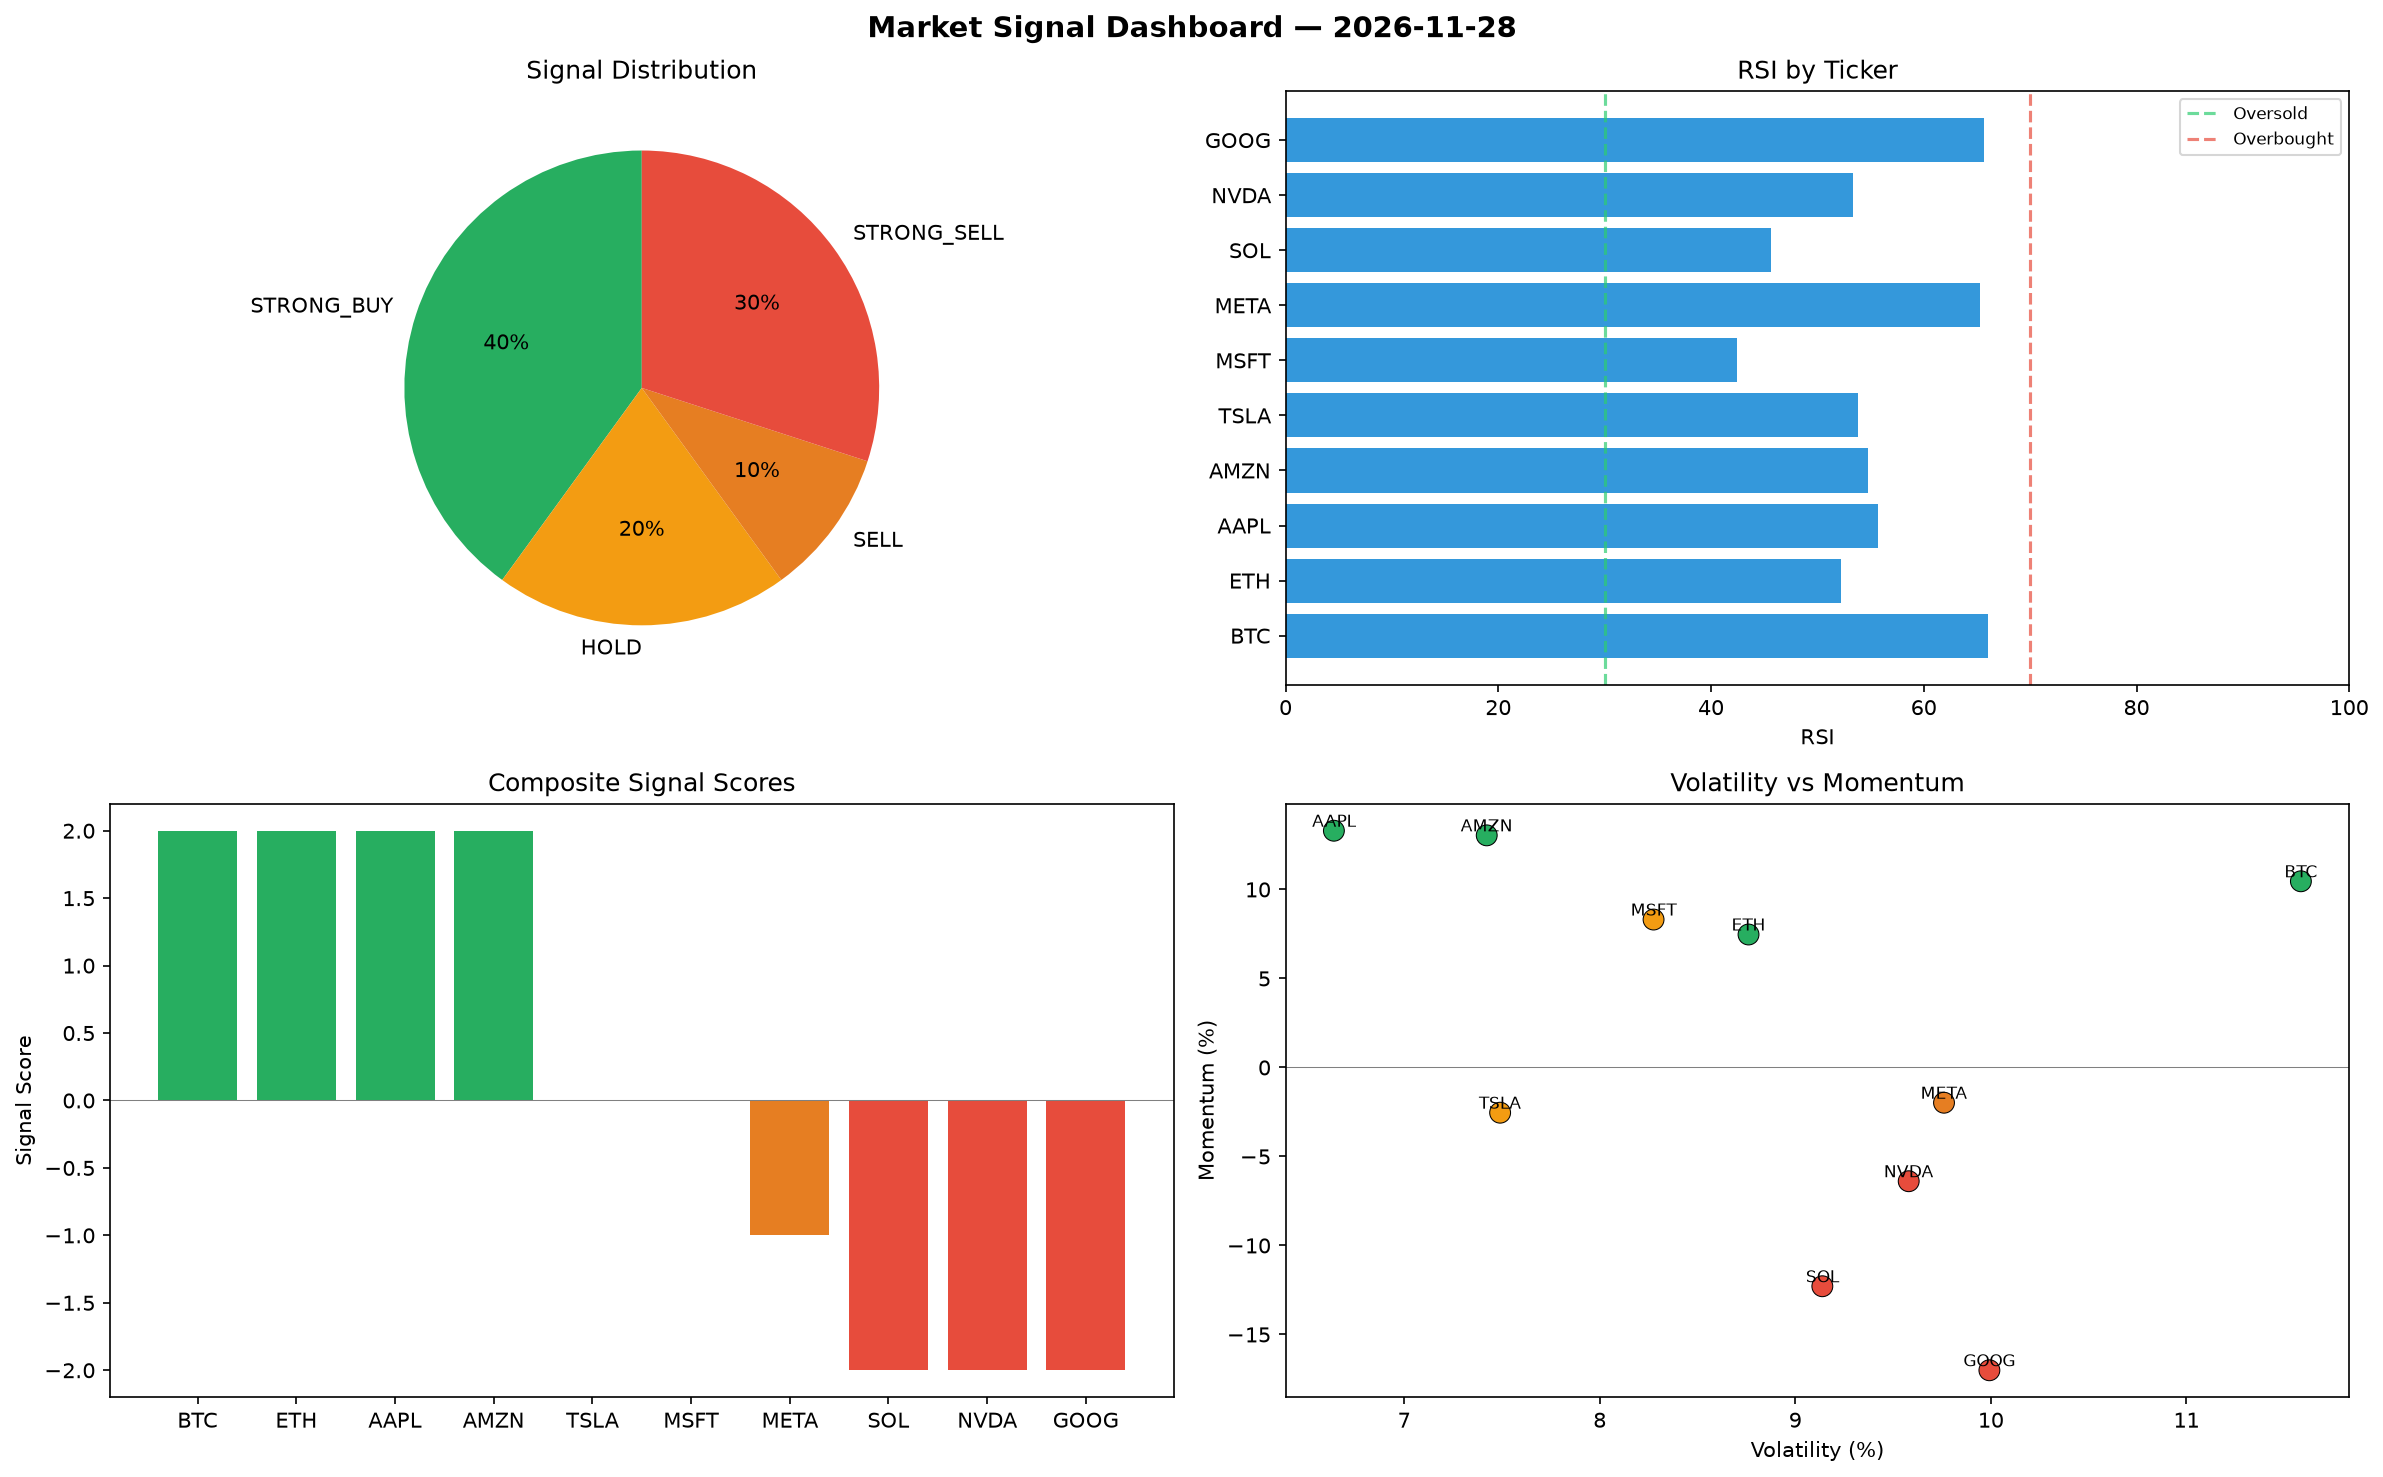
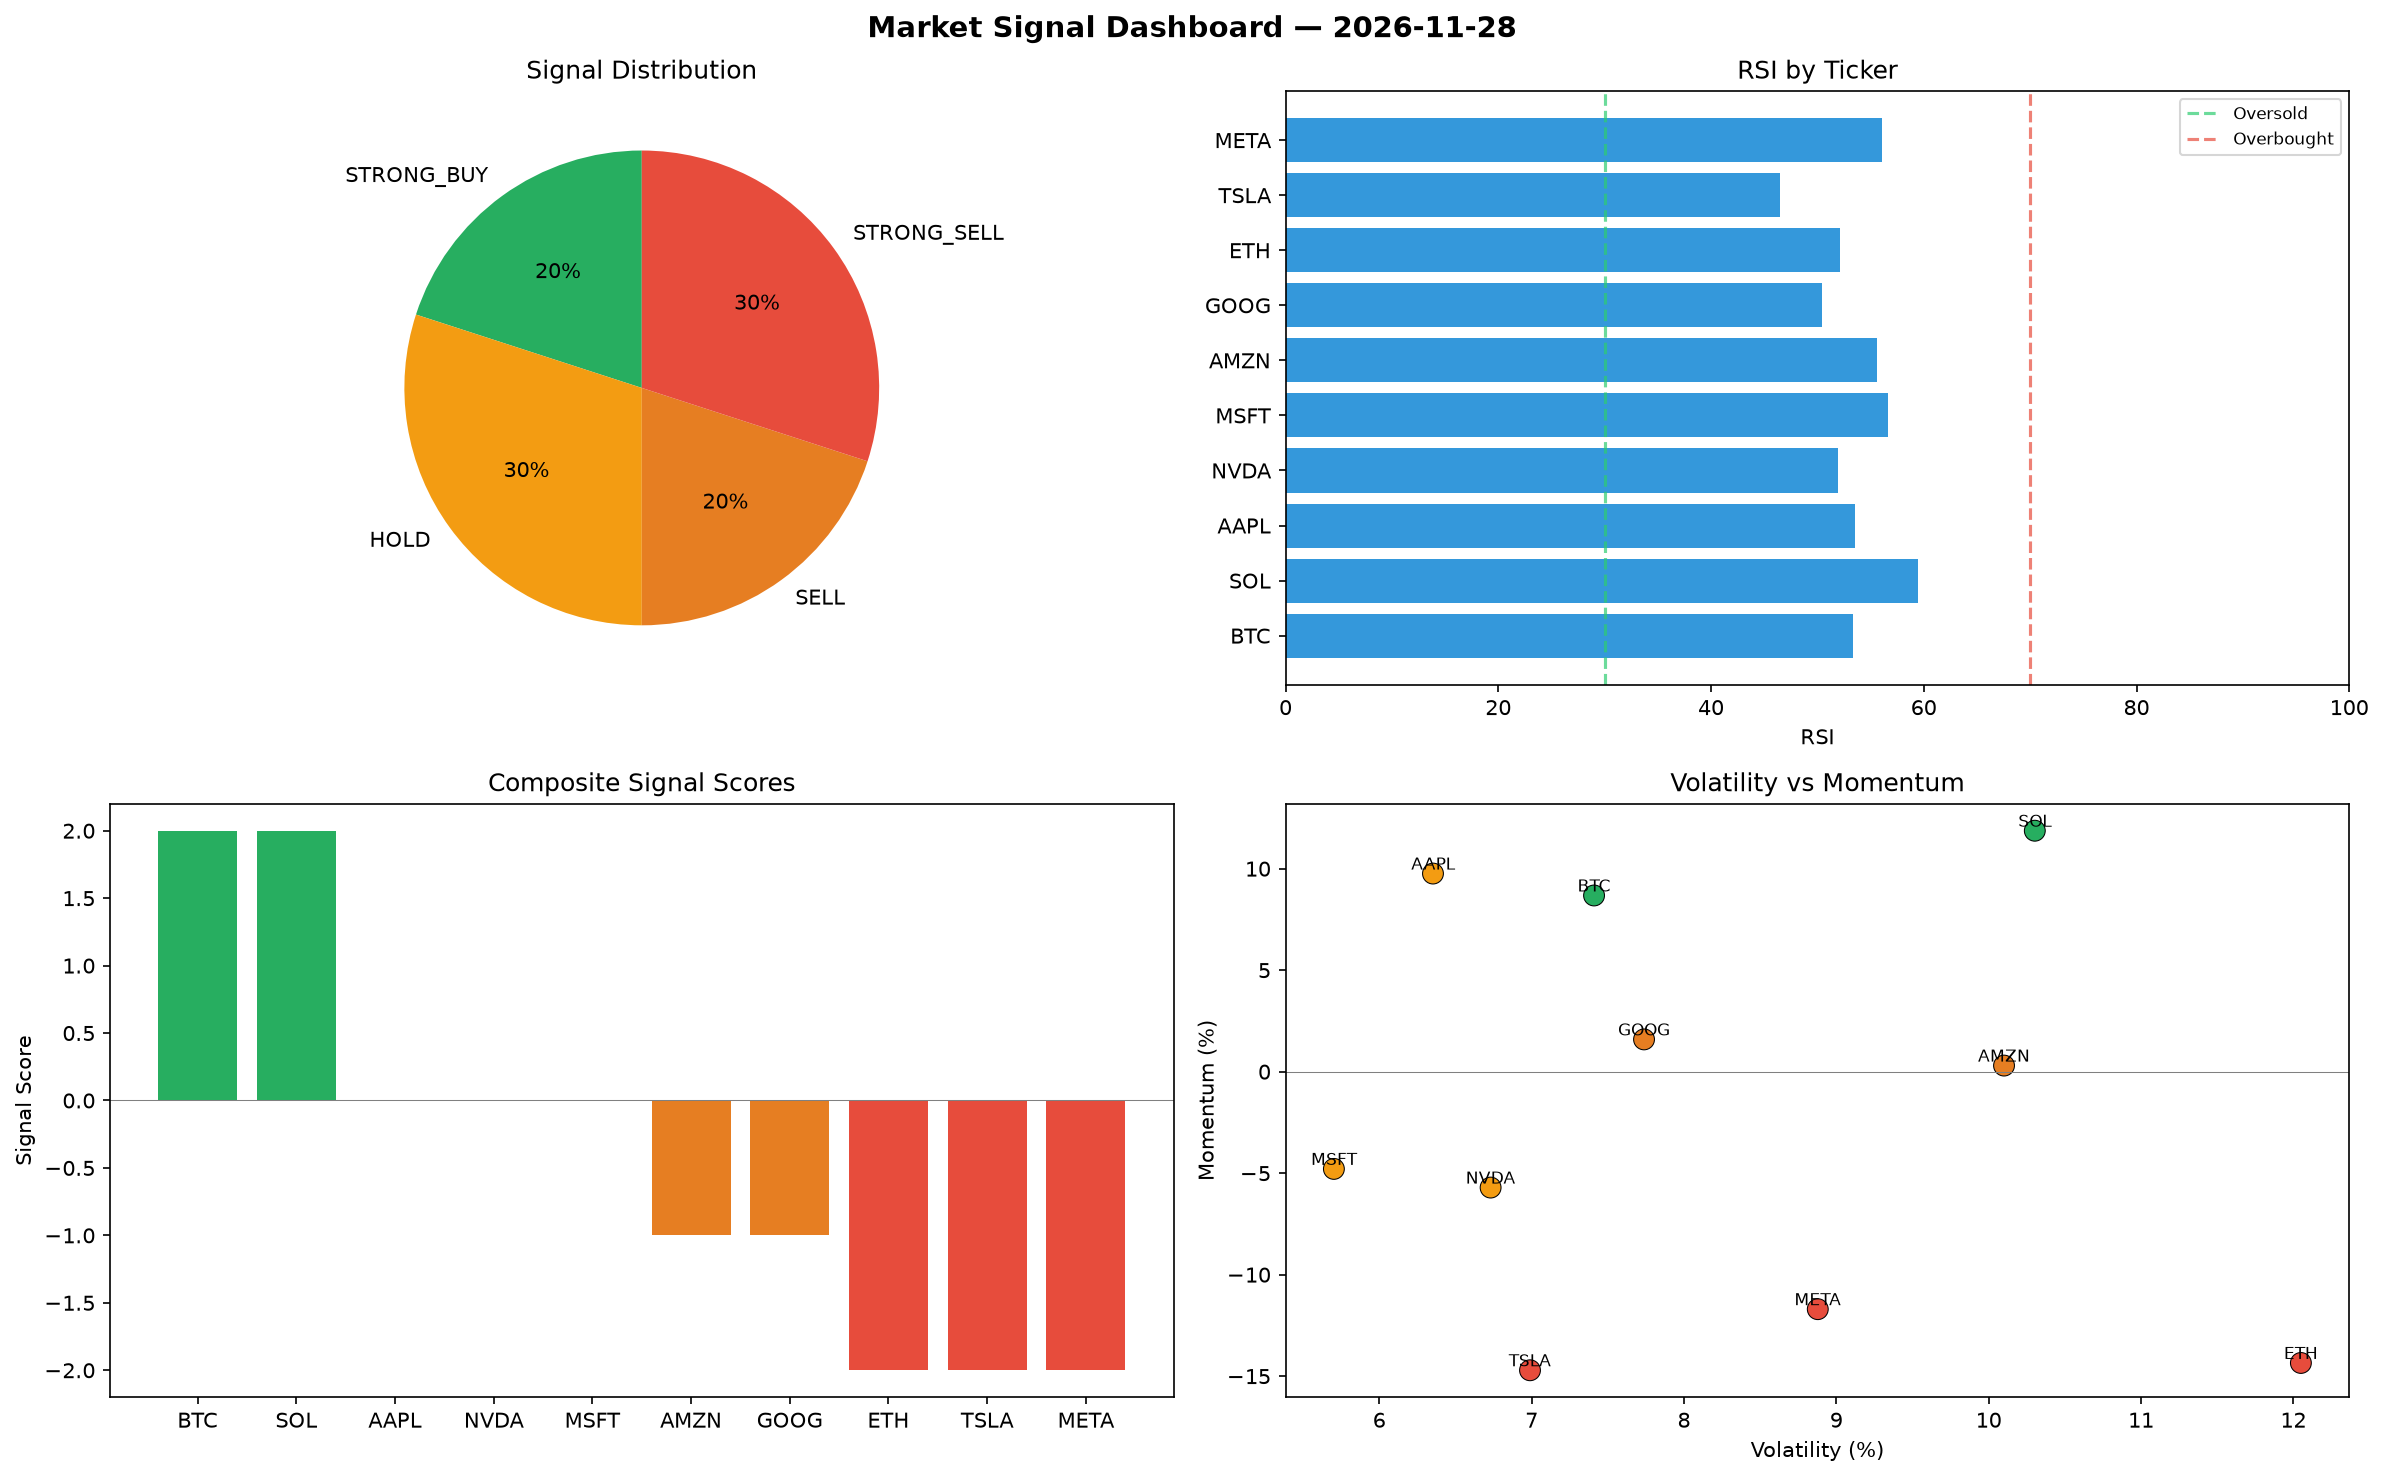
automated-bots: market signals 2026-11-28T17:02

diff --git a/logs/2026-11-28.md b/logs/2026-11-28.md
@@ -1,6 +1,6 @@
 # Market Signal Report — 2026-11-28
 
-**Run ID:** `974afcb3eb` | **Buy:** 4 | **Sell:** 4 | **Hold:** 2
+**Run ID:** `e75f9f6bfc` | **Buy:** 2 | **Sell:** 5 | **Hold:** 3
 
 ![Dashboard](2026-11-28_dashboard.png)
 
@@ -8,28 +8,28 @@
 
 | Ticker | Price | Signal | Score | RSI | Momentum | Confidence |
 |--------|-------|--------|-------|-----|----------|------------|
-| BTC | $2763.24 | **STRONG_BUY** | 2 | 66.07 | 0.1046 | 0.5 |
-| ETH | $4446.2 | **STRONG_BUY** | 2 | 52.21 | 0.0747 | 0.5 |
-| AAPL | $4558.4 | **STRONG_BUY** | 2 | 55.69 | 0.133 | 0.5 |
-| AMZN | $1620.11 | **STRONG_BUY** | 2 | 54.74 | 0.1304 | 0.5 |
-| TSLA | $2603.8 | **HOLD** | 0 | 53.78 | -0.0254 | 0.0 |
-| MSFT | $4671.49 | **HOLD** | 0 | 42.44 | 0.0831 | 0.0 |
-| META | $165.86 | **SELL** | -1 | 65.29 | -0.0198 | 0.25 |
-| SOL | $1243.02 | **STRONG_SELL** | -2 | 45.65 | -0.1229 | 0.5 |
-| NVDA | $1633.46 | **STRONG_SELL** | -2 | 53.34 | -0.0639 | 0.5 |
-| GOOG | $2350.58 | **STRONG_SELL** | -2 | 65.64 | -0.1701 | 0.5 |
+| BTC | $221.7 | **STRONG_BUY** | 2 | 53.39 | 0.0868 | 0.5 |
+| SOL | $665.08 | **STRONG_BUY** | 2 | 59.49 | 0.1187 | 0.5 |
+| AAPL | $2290.82 | **HOLD** | 0 | 53.58 | 0.0976 | 0.0 |
+| NVDA | $2747.01 | **HOLD** | 0 | 51.95 | -0.0571 | 0.0 |
+| MSFT | $3780.18 | **HOLD** | 0 | 56.67 | -0.0479 | 0.0 |
+| AMZN | $2011.44 | **SELL** | -1 | 55.57 | 0.003 | 0.25 |
+| GOOG | $2775.58 | **SELL** | -1 | 50.45 | 0.0159 | 0.25 |
+| ETH | $272.96 | **STRONG_SELL** | -2 | 52.16 | -0.1435 | 0.5 |
+| TSLA | $2035.58 | **STRONG_SELL** | -2 | 46.52 | -0.1471 | 0.5 |
+| META | $3628.06 | **STRONG_SELL** | -2 | 56.06 | -0.117 | 0.5 |
 
 ## Delta vs Yesterday
 
 | Ticker | Today | Yesterday | Price Change | Signal Changed |
 |--------|-------|-----------|-------------|----------------|
-| BTC | STRONG_BUY | STRONG_BUY | 📈 884.31% | — |
-| ETH | STRONG_BUY | STRONG_BUY | 📈 179.07% | — |
-| AAPL | STRONG_BUY | HOLD | 📈 257.82% | ⚠ YES |
-| AMZN | STRONG_BUY | HOLD | 📉 -56.05% | ⚠ YES |
-| TSLA | HOLD | HOLD | 📈 506.69% | — |
-| MSFT | HOLD | STRONG_BUY | 📉 -6.29% | ⚠ YES |
-| META | SELL | STRONG_BUY | 📉 -81.18% | ⚠ YES |
-| SOL | STRONG_SELL | STRONG_BUY | 📉 -59.05% | ⚠ YES |
-| NVDA | STRONG_SELL | STRONG_BUY | 📉 -58.85% | ⚠ YES |
-| GOOG | STRONG_SELL | STRONG_BUY | 📈 48.2% | ⚠ YES |
+| BTC | STRONG_BUY | STRONG_BUY | 📉 -21.03% | — |
+| SOL | STRONG_BUY | STRONG_BUY | 📉 -78.09% | — |
+| AAPL | HOLD | HOLD | 📈 79.82% | — |
+| NVDA | HOLD | STRONG_BUY | 📉 -30.79% | ⚠ YES |
+| MSFT | HOLD | STRONG_BUY | 📉 -24.17% | ⚠ YES |
+| AMZN | SELL | HOLD | 📉 -45.43% | ⚠ YES |
+| GOOG | SELL | STRONG_BUY | 📈 75.0% | ⚠ YES |
+| ETH | STRONG_SELL | STRONG_BUY | 📉 -82.87% | ⚠ YES |
+| TSLA | STRONG_SELL | HOLD | 📈 374.3% | ⚠ YES |
+| META | STRONG_SELL | STRONG_BUY | 📈 311.57% | ⚠ YES |
